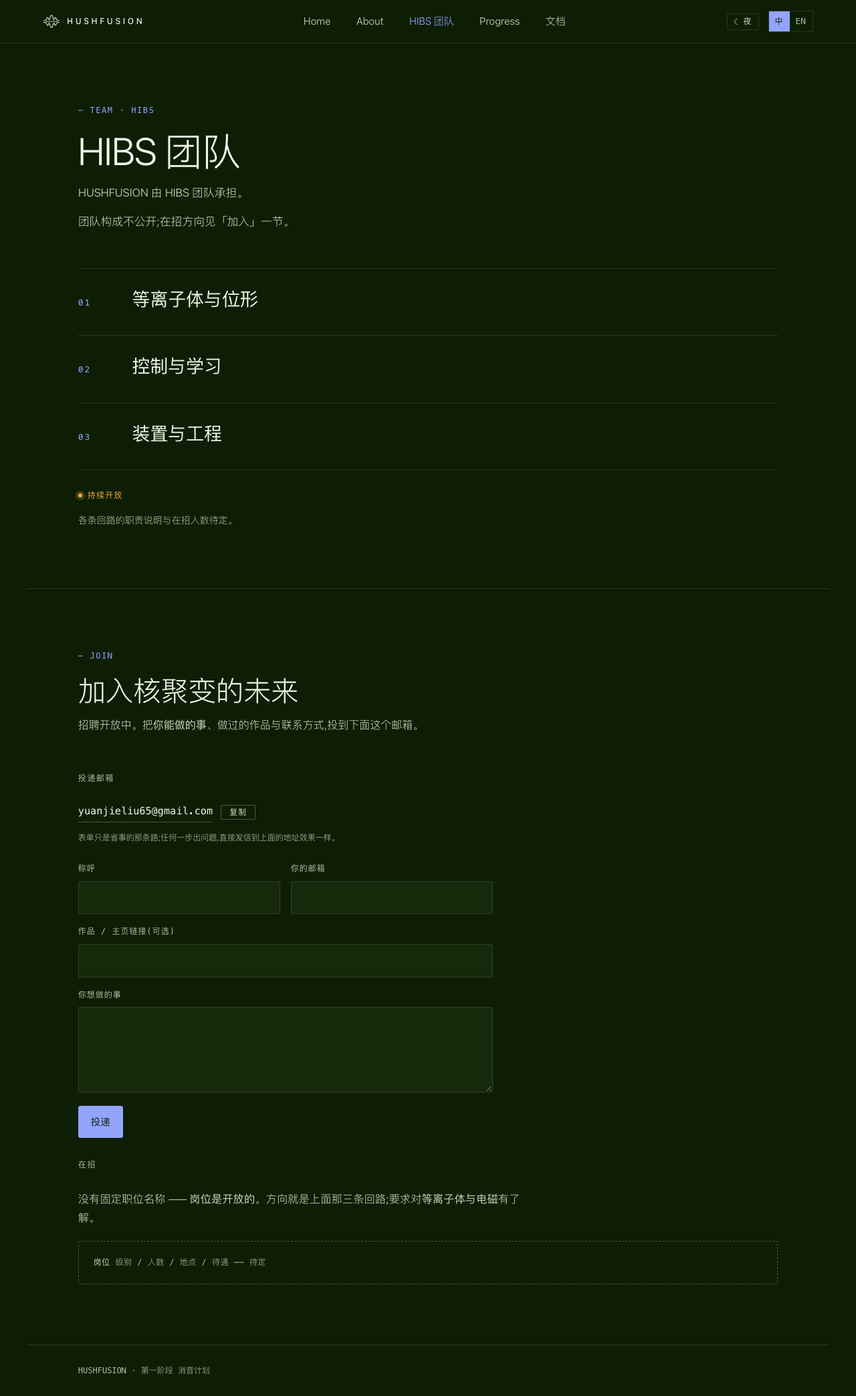
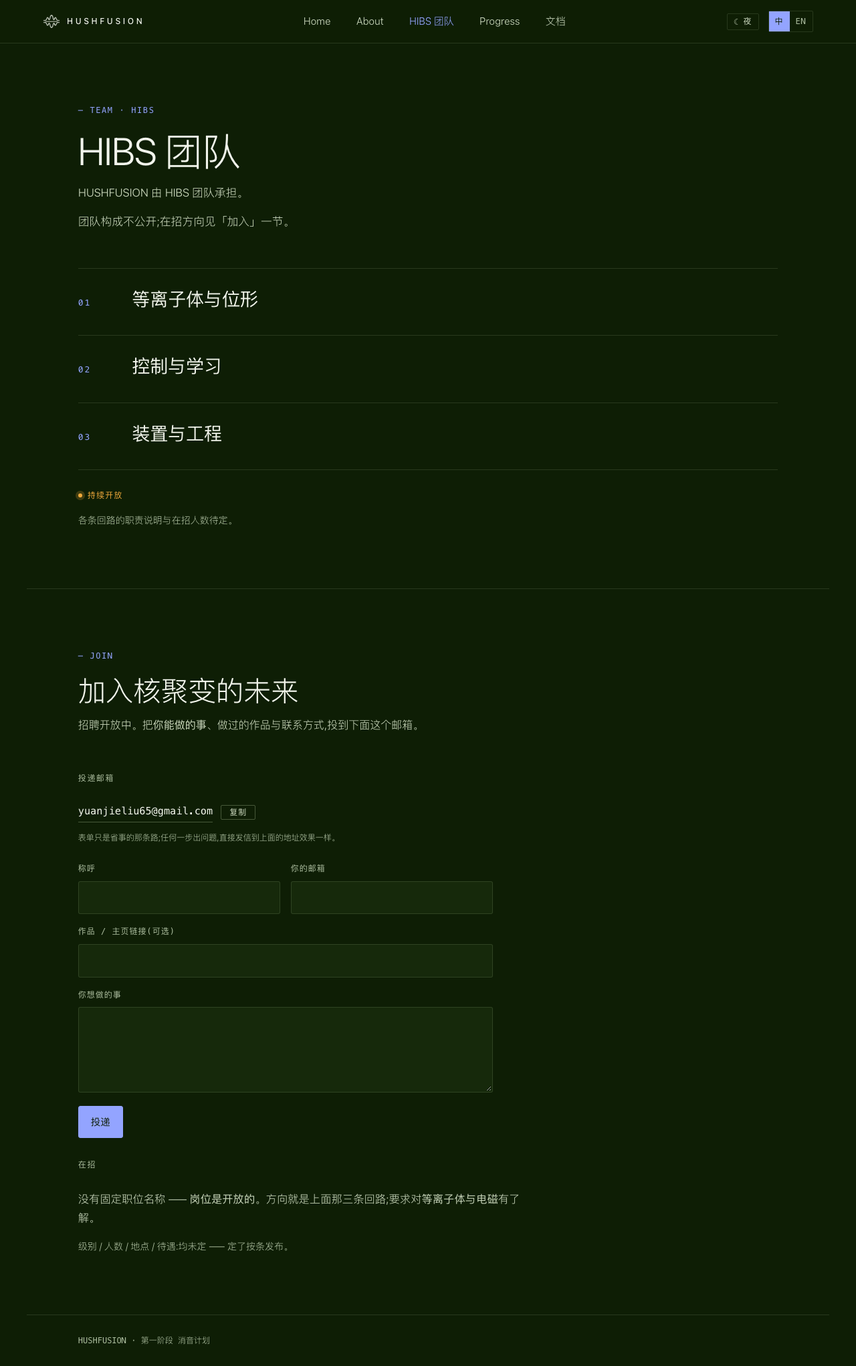
design(site): 前门做减法 + 首次把设计系统 FORGE 写进站点;修 CI 三天红
减法(需方:内容太乱,用乔布斯技能删减)
- 诊断:同一句话在一屏内说了八遍。删掉与下方清单逐字重复的滚动展示栏、
  重复的第二条 lede、与第一个同页的第二个 CTA、空 figure/figcaption
- 首页五个支点 → 两条公开技术方向(另三个是动机与愿景,完整五条留在关于页并回链)
- 删掉两个 .placeholder 空盒子(关于页「合作与资助·待项目方提供」、HIBS 页「岗位·待定」)

加进介绍(需方:前端设计更新后把这个项目加进去)
- 首页 #forge 一节:闭环 / 人机对比 1.3814 vs -0.2906 / 16 道门 / 诚实的限制
- 进展页 #forge:12,001 次评估、跨语言一致 2.2e-12、逐位复现门、一行复现命令、
  「说到哪没说到哪」四条限制,并删掉「关键指标·数值待项目方提供」
- 文档区代码仓库第三行 + 关于页时间线第二个已发生节点(2026-09-26)
- 站点首次有可运行的机器可发布,不再只有账本与概念;纪律未破:只发已归档的事

修 CI(连续三天全红,非本次改动引入)
- untracked_raw_check 报 assets/art/mu-dynamics.png(加第 06 册时漏登记)与
  docs/screenshots/docs.png(theory.html 改名后截图名变了)
- 按本仓惯例补登 manifest 两行 + docs/ASSETS.md §九 一行,不绕门

验收:verify-site.mjs 226/226(本地 + 部署后线上);wiki 7 道门全绿;
未改 style.css/app.js ⇒ 五页 ?v= 保持同号 19

diff --git a/index.html b/index.html
@@ -4,7 +4,7 @@
 <meta charset="UTF-8">
 <meta name="viewport" content="width=device-width, initial-scale=1">
 <title>HUSHFUSION — 反引力场 · 无噪音能源 · 可控引力场飞行器</title>
-<meta name="description" content="HUSHFUSION:用反引力场换取没有噪音的能源与安静无声的动力源;终局是物质质量归零后的引力场相变,以及可控引力场的飞行器。消音计划是第一阶段。">
+<meta name="description" content="HUSHFUSION:用反引力场换取没有噪音的能源与安静无声的动力源;终局是物质质量归零后的引力场相变,以及可控引力场的飞行器。消音计划是第一阶段;已有一个可运行的线圈设计系统 FORGE。">
 <link rel="icon" href="icons/favicon-32.png" sizes="32x32" data-icon="favicon">
 <link rel="apple-touch-icon" href="icons/apple-touch-icon.png" data-icon="apple">
 <meta name="theme-color" content="#0E1E05" id="theme-color">
@@ -47,9 +47,6 @@
     <figure class="exhibit reveal">
       <img src="assets/hero/poster-full.png"
            alt="HUSHFUSION 消音计划手绘海报:笔迹主标、中文标语与反应堆主视觉">
-      <figcaption>
-       
-      </figcaption>
     </figure>
   </section>
 
@@ -61,91 +58,70 @@
       <p class="intro-cn">消音计划<span class="intro-phase">第一阶段</span></p>
       <p class="intro-en">Controlled Fusion Through the Silence.</p>
       <p class="lede" data-zh="物质质量归零,引力场发生相变 —— 我们要抵达的地方,是&lt;strong&gt;可以控制引力场的飞行器与交通设施&lt;/strong&gt;。" data-en="Mass goes to zero and the gravitational field undergoes a phase transition — where we are headed is &lt;strong&gt;flight vehicles and transport infrastructure built on a controlled gravitational field&lt;/strong&gt;." data-html="1">物质质量归零,引力场发生相变 —— 我们要抵达的地方,是<strong>可以控制引力场的飞行器与交通设施</strong>。</p>
-      <p class="lede" style="margin-top:14px" data-zh="HUSHFUSION 是一个以可控核聚变为起点的科研项目,用&lt;strong&gt;反引力场&lt;/strong&gt;做到两件事:&lt;strong&gt;没有噪音&lt;/strong&gt;与&lt;strong&gt;无限能源&lt;/strong&gt;,并由此得到安静无声的动力源。" data-en="HUSHFUSION starts from controlled fusion and uses an &lt;strong&gt;anti-gravity field&lt;/strong&gt; to achieve two things — &lt;strong&gt;no noise&lt;/strong&gt; and &lt;strong&gt;unlimited energy&lt;/strong&gt; — yielding a power source that is silent." data-html="1">HUSHFUSION 是一个以可控核聚变为起点的科研项目,用<strong>反引力场</strong>做到两件事:<strong>没有噪音</strong>与<strong>无限能源</strong>,并由此得到安静无声的动力源。</p>
-            <p class="intro-path" data-zh="反引力场 → 无噪音 · 无限能源 → 安静无声的动力源 → 物质质量归零 → 引力场相变 → 可控引力场飞行器" data-en="Anti-gravity field → no noise · unlimited energy → silent power → mass to zero → gravitational phase transition → gravity-controlled flight">反引力场 → 无噪音 · 无限能源 → 安静无声的动力源 → 物质质量归零 → 引力场相变 → 可控引力场飞行器</p>
+      <p class="intro-path" data-zh="反引力场 → 无噪音 · 无限能源 → 安静无声的动力源 → 物质质量归零 → 引力场相变 → 可控引力场飞行器" data-en="Anti-gravity field → no noise · unlimited energy → silent power → mass to zero → gravitational phase transition → gravity-controlled flight">反引力场 → 无噪音 · 无限能源 → 安静无声的动力源 → 物质质量归零 → 引力场相变 → 可控引力场飞行器</p>
       <div class="intro-cta">
-        <a class="quiet-cta quiet-cta--solid" href="progress.html#tech">探索更多 <span aria-hidden="true">→</span></a>
-        <a class="quiet-cta" href="progress.html">阅读进展</a>
+        <a class="quiet-cta quiet-cta--solid" href="progress.html#forge">已能跑的东西 <span aria-hidden="true">→</span></a>
       </div>
     </div>
   </section>
 
-  <!-- ◆ 滚动展示栏:主题词(取自海报要点) -->
-  <div class="cap-marquee" aria-hidden="false">
-    <div class="cap-marquee-track">
-      <span class="cap-marquee-group">
-        <span class="cap-marquee-item"><b>01</b>Time-Varying Gravity</span><span class="cap-marquee-sep">◇</span>
-        <span class="cap-marquee-item"><b>02</b>AI Control</span><span class="cap-marquee-sep">◇</span>
-        <span class="cap-marquee-item"><b>03</b>Noise Suppression</span><span class="cap-marquee-sep">◇</span>
-        <span class="cap-marquee-item"><b>04</b>Clean Energy</span><span class="cap-marquee-sep">◇</span>
-        <span class="cap-marquee-item"><b>05</b>A Quieter Future</span><span class="cap-marquee-sep">◇</span>
-      </span>
-      <span class="cap-marquee-group" aria-hidden="true">
-        <span class="cap-marquee-item"><b>01</b>Time-Varying Gravity</span><span class="cap-marquee-sep">◇</span>
-        <span class="cap-marquee-item"><b>02</b>AI Control</span><span class="cap-marquee-sep">◇</span>
-        <span class="cap-marquee-item"><b>03</b>Noise Suppression</span><span class="cap-marquee-sep">◇</span>
-        <span class="cap-marquee-item"><b>04</b>Clean Energy</span><span class="cap-marquee-sep">◇</span>
-        <span class="cap-marquee-item"><b>05</b>A Quieter Future</span><span class="cap-marquee-sep">◇</span>
-      </span>
-    </div>
-  </div>
-
-  <!-- ◆ 能力:让世界更安静 -->
+  <!-- ◆ 两条公开的技术方向(只有两条是技术线,另外三个是动机与愿景 —— 完整五个支点见关于页) -->
   <section class="band" id="quiet">
     <div class="section-head reveal">
       <p class="kicker">— 01 · 它要解决什么</p>
-      <h2 class="section-title" data-zh="从动力源到飞行器" data-en="From a power source to flight">从动力源到飞行器</h2>
+      <h2 class="section-title" data-zh="两条公开的技术方向" data-en="Two public technical directions">两条公开的技术方向</h2>
       <p class="section-lede" data-zh="聚变的难点不是「点火」,而是把混乱按住 —— 但消音只是第一段。这条路通向的是&lt;strong&gt;物质质量归零后的引力场相变&lt;/strong&gt;。" data-en="The hard part of fusion is not ignition but holding the chaos still — yet silencing is only the first stretch. The road leads to &lt;strong&gt;the gravitational phase transition that follows mass going to zero&lt;/strong&gt;." data-html="1">聚变的难点不是「点火」,而是把混乱按住 —— 但消音只是第一段。这条路通向的是<strong>物质质量归零后的引力场相变</strong>。</p>
     </div>
 
-    <div class="split reveal">
-      <ol class="cap-list reveal">
-        <li><span class="cap-no">01</span><div class="cap-body">
-          <h3>时变引力场</h3>
-          <p>本项目的技术逻辑。</p>
-          <span class="cap-tag">Time-Varying Gravitational Field</span>
-        </div></li>
-        <li><span class="cap-no">02</span><div class="cap-body">
-          <h3>AI 智能控制</h3>
-          <p>项目海报上列出的方向之一:电磁场持续学习的 AI 系统。</p>
-          <span class="cap-tag">AI Control</span>
-        </div></li>
-        <li><span class="cap-no">03</span><div class="cap-body">
-          <h3>噪音抑制</h3>
-          <p>动机层:要的是安静。它不是本项目的技术手段 —— 手段在<strong>时变引力场</strong>一侧。</p>
-          <span class="cap-tag">Noise Suppression</span>
-        </div></li>
-        <li><span class="cap-no">04</span><div class="cap-body">
-          <h3>清洁能源</h3>
-          <p>清洁能源方向。</p>
-          <span class="cap-tag">Clean Energy</span>
-        </div></li>
-        <li><span class="cap-no">05</span><div class="cap-body">
-          <h3>更安静的将来</h3>
-          <p>能源问题的解,不应该是更大的轰鸣,而是更少的噪声。</p>
-          <span class="cap-tag">A Quieter Future</span>
-        </div></li>
-      </ol>
-      <figure class="reveal fig-native-sm">
-     
-        
-      </figure>
+    <ol class="cap-list reveal">
+      <li><span class="cap-no">01</span><div class="cap-body">
+        <h3>时变引力场</h3>
+        <p data-zh="本项目的技术逻辑:引力不是实体,是空间场的泛函 —— 控制引力就是控制流动的梯度结构。" data-en="The technical logic of the project: gravity is not a substance but a functional of the space field — controlling gravity means controlling the gradient structure of the flow.">本项目的技术逻辑:引力不是实体,是空间场的泛函 —— 控制引力就是控制流动的梯度结构。</p>
+        <span class="cap-tag">Time-Varying Gravitational Field</span>
+      </div></li>
+      <li><span class="cap-no">02</span><div class="cap-body">
+        <h3>AI 智能控制</h3>
+        <p data-zh="电磁场持续学习的 AI 系统。第一版已经在跑:见下面 FORGE。" data-en="An AI system that keeps learning the electromagnetic field. Its first version already runs — see FORGE below.">电磁场持续学习的 AI 系统。第一版已经在跑:见下面 FORGE。</p>
+        <span class="cap-tag">AI Control</span>
+      </div></li>
+    </ol>
+    <p style="margin-top:22px"><a class="see-all" href="about.html#bullets"
+      data-zh="完整的五个支点(海报原话) →" data-en="All five pillars, as written on the poster →">完整的五个支点(海报原话) →</a></p>
+  </section>
+
+  <!-- ◆ 已经能跑的东西:FORGE(唯一有实测数字的一块) -->
+  <section class="band" id="forge">
+    <div class="section-head reveal">
+      <p class="kicker">— 02 · 已经能跑的东西</p>
+      <h2 class="section-title" data-zh="FORGE:线圈怎么摆,先让机器试" data-en="FORGE: let the machine try the coil first">FORGE:线圈怎么摆,先让机器试</h2>
+      <p class="section-lede" data-html="1" data-zh="装置的第一个硬约束是&lt;strong&gt;线圈怎么摆&lt;/strong&gt;。FORGE 把这件事做成了闭环:参数化线圈 → 算磁场 → 打分 → 入册 → 从册子里学规则。它不是演示,是 v0.1.0,已经跑完 12,001 次评估。" data-en="The first hard constraint of any device is &lt;strong&gt;where the coils go&lt;/strong&gt;. FORGE closes that loop: parameterised coils → field solve → score → registry → rules mined from the registry. It is not a demo — it is v0.1.0, and it has already run 12,001 evaluations.">装置的第一个硬约束是<strong>线圈怎么摆</strong>。FORGE 把这件事做成了闭环:参数化线圈 → 算磁场 → 打分 → 入册 → 从册子里学规则。它不是演示,是 v0.1.0,已经跑完 12,001 次评估。</p>
     </div>
+
+    <dl class="spec-list reveal">
+      <div><dt>闭环</dt><dd data-zh="四条搜索路线(随机 / LHS / 进化 / 热启动进化)在同等预算下比较,全部写进同一个册子。" data-en="Four search routes (random / LHS / evolution / warm-start evolution) compared at equal budget, all written into one registry.">四条搜索路线(随机 / LHS / 进化 / 热启动进化)在同等预算下比较,全部写进同一个册子。</dd></div>
+      <div><dt>人机对比</dt><dd data-zh="机器最优 1.3814,人工基线 −0.2906(Δ = +1.672);四种方法在 3/3 个随机种子上都赢。" data-en="Machine best 1.3814 against a human-designed baseline of −0.2906 (Δ = +1.672); all four methods win on 3/3 seeds.">机器最优 1.3814,人工基线 −0.2906(Δ = +1.672);四种方法在 3/3 个随机种子上都赢。</dd></div>
+      <div><dt>门禁</dt><dd data-zh="16 道验收门全绿(含跨语言复核:Go 求解器与独立 Python oracle 的场值一致到 2.2e−12)。" data-en="16 acceptance gates green, including a cross-language check: the Go solver and an independent Python oracle agree on field values to 2.2e−12.">16 道验收门全绿(含跨语言复核:Go 求解器与独立 Python oracle 的场值一致到 2.2e−12)。</dd></div>
+      <div><dt>诚实的限制</dt><dd data-zh="那个最优解很可能不可造 —— 它把一圈线圈放在距打分点 4.2 mm 的位置,因为目标函数还没有导体净空约束。我们把这一条和数字一起公开。" data-en="That winning design is most likely unbuildable — it parks a coil 4.2 mm from the scoring point, because the objective still has no conductor-clearance constraint. We publish that alongside the number.">那个最优解很可能不可造 —— 它把一圈线圈放在距打分点 4.2 mm 的位置,因为目标函数还没有导体净空约束。我们把这一条和数字一起公开。</dd></div>
+    </dl>
+
+    <p style="margin-top:26px">
+      <a class="see-all" href="progress.html#forge" data-zh="进展与技术里的全部细节 →" data-en="Full detail under Progress &amp; technology →">进展与技术里的全部细节 →</a>
+      &nbsp;&nbsp;
+      <a class="see-all" href="https://github.com/logos-42/hushfusion-forge" target="_blank" rel="noopener" data-zh="代码仓库 →" data-en="Repository →">代码仓库 →</a>
+    </p>
   </section>
 
   <!-- ◆ 当前阶段 -->
   <section class="band" id="status">
     <div class="section-head reveal">
-      <p class="kicker">— 02 · Status</p>
+      <p class="kicker">— 03 · Status</p>
       <h2 class="section-title" data-zh="当前阶段" data-en="Current stage">当前阶段</h2>
-      <p class="section-lede" data-zh="第一阶段「消音计划」处于&lt;strong&gt;概念阶段&lt;/strong&gt;:技术逻辑与路线已确立,实验进展待立项后按归档发布。" data-en="The first phase — the hush plan — is at the &lt;strong&gt;concept stage&lt;/strong&gt;: the technical logic and the route are settled; experimental progress is published once archived." data-html="1">第一阶段「消音计划」处于<strong>概念阶段</strong>:技术逻辑与路线已确立,实验进展待立项后按归档发布。</p>
+      <p class="section-lede" data-html="1" data-zh="装置处在&lt;strong&gt;概念阶段&lt;/strong&gt;:技术逻辑与路线已确立,实验进展待立项后按归档发布。设计侧已经有一条能跑的路 —— FORGE v0.1.0。" data-en="The device is at the &lt;strong&gt;concept stage&lt;/strong&gt;: the technical logic and the route are settled, and experimental progress is published once archived. On the design side one path already runs — FORGE v0.1.0.">装置处在<strong>概念阶段</strong>:技术逻辑与路线已确立,实验进展待立项后按归档发布。设计侧已经有一条能跑的路 —— FORGE v0.1.0。</p>
     </div>
-    <p><span class="status">Concept</span></p>
+    <p><span class="status">Concept</span> <span class="status">FORGE v0.1.0</span></p>
     <p style="margin-top:26px"><a class="see-all" href="progress.html"
        data-zh="进展与技术 →" data-en="Progress &amp; technology →">进展与技术 →</a></p>
   </section>
-
-
 
 </main>
 

diff --git a/progress.html b/progress.html
@@ -4,7 +4,7 @@
 <meta charset="UTF-8">
 <meta name="viewport" content="width=device-width, initial-scale=1">
 <title>进展与技术 · HUSHFUSION</title>
-<meta name="description" content="HUSHFUSION 的进展与技术口径:技术逻辑是反引力场,核心动机是可以控制引力场的飞行器与交通设施。">
+<meta name="description" content="HUSHFUSION 的进展与技术口径:技术逻辑是反引力场,核心动机是可以控制引力场的飞行器与交通设施;设计侧已有一个可运行的系统 FORGE v0.1.0。">
 <link rel="icon" href="icons/favicon-32.png" sizes="32x32" data-icon="favicon">
 <link rel="apple-touch-icon" href="icons/apple-touch-icon.png" data-icon="apple">
 <meta name="theme-color" content="#0E1E05" id="theme-color">
@@ -54,13 +54,12 @@
 
     <div class="section-head reveal" style="margin-top:clamp(36px,5vw,64px);margin-bottom:14px">
       <h2 class="section-title" style="font-size:clamp(1.25rem,2.2vw,1.7rem)"
-          data-zh="当前阶段:概念" data-en="Current stage: concept">当前阶段:概念</h2>
-      <p class="section-lede"
-         data-zh="技术逻辑与路线已确立(反引力场 / 无噪音能源)。实验进展、指标数值与归档记录都还没有 —— 待立项后按条目发布,&lt;strong&gt;不预先填充&lt;/strong&gt;。"
-         data-en="The technical logic and the route are settled (anti-gravity field / energy without noise). Experimental progress, metric values and archives do not exist yet — they will be published entry by entry once the project starts, and are &lt;strong&gt;not pre-filled&lt;/strong&gt;."
-         data-html="1">技术逻辑与路线已确立(反引力场 / 无噪音能源)。实验进展、指标数值与归档记录都还没有 —— 待立项后按条目发布,<strong>不预先填充</strong>。</p>
+          data-zh="当前阶段:概念 —— 但设计侧已经有一条路在跑" data-en="Current stage: concept — but one path on the design side already runs">当前阶段:概念 —— 但设计侧已经有一条路在跑</h2>
+      <p class="section-lede" data-html="1"
+         data-zh="&lt;strong&gt;装置&lt;/strong&gt;仍在概念阶段:技术逻辑与路线已确立(反引力场 / 无噪音能源),实验进展、指标数值与归档记录都还没有,待立项后按条目发布,&lt;strong&gt;不预先填充&lt;/strong&gt;。&lt;strong&gt;设计侧&lt;/strong&gt;不同 —— 已经有一台在跑的机器(FORGE),它的每一个数都在下面,而且都能被重新算出来。"
+         data-en="The &lt;strong&gt;device&lt;/strong&gt; is still at the concept stage: the technical logic and route are settled (anti-gravity field / energy without noise); experimental progress, metric values and archives do not exist yet and will be published entry by entry once the project starts — &lt;strong&gt;not pre-filled&lt;/strong&gt;. The &lt;strong&gt;design side&lt;/strong&gt; is different: there is already a machine that runs (FORGE), and every number of it is below — each one recomputable.">装置仍在概念阶段:技术逻辑与路线已确立(反引力场 / 无噪音能源),实验进展、指标数值与归档记录都还没有,待立项后按条目发布,<strong>不预先填充</strong>。设计侧不同 —— 已经有一台在跑的机器(FORGE),它的每一个数都在下面,而且都能被重新算出来。</p>
     </div>
-    <p><span class="status">Concept</span></p>
+    <p><span class="status">Concept · device</span> <span class="status">Running · FORGE v0.1.0</span></p>
   </section>
 
   <!-- ◆ 技术(原 technology.html 已并入本节) -->
@@ -90,29 +89,62 @@
         <p class="pane-tag">Time-Varying Gravitational Field</p>
         <dl class="spec-list">
           <div><dt>角色</dt><dd><strong>本项目的技术逻辑。</strong></dd></div>
-          <div><dt>公开细节</dt><dd>待项目方提供。</dd></div>
+          <div><dt>公开细节</dt><dd data-zh="引力在此框架里不是实体,而是空间场的泛函:Φ = ½|C|²,引力加速度 = −∇Φ;所以「控制引力」= 「控制流动的梯度结构」。代数一侧的账在文档区第一册。" data-en="In this framework gravity is not a substance but a functional of the space field: Φ = ½|C|², with gravitational acceleration = −∇Φ; so controlling gravity means controlling the gradient structure of the flow. The algebraic ledger is the first document in the docs section.">引力在此框架里不是实体,而是空间场的泛函:Φ = ½|C|²,引力加速度 = −∇Φ;所以「控制引力」= 「控制流动的梯度结构」。代数一侧的账在文档区第一册。</dd></div>
         </dl>
       </div>
       <div class="pane" data-pane="ai" role="tabpanel">
         <p class="pane-tag">AI Control</p>
         <dl class="spec-list">
-          <div><dt>角色</dt><dd>项目海报上列出的方向之一。</dd></div>
-          <div><dt>公开细节</dt><dd>电磁场持续学习的 AI 系统。</dd></div>
+          <div><dt>角色</dt><dd data-zh="项目海报上列出的方向之一:电磁场持续学习的 AI 系统。" data-en="One of the directions written on the project poster: an AI system that keeps learning the electromagnetic field.">项目海报上列出的方向之一:电磁场持续学习的 AI 系统。</dd></div>
+          <div><dt>公开细节</dt><dd data-zh="已经有一台在跑 —— &lt;strong&gt;FORGE&lt;/strong&gt;,见下一节。它不训练等离子体,而是先替装置把「线圈怎么摆」这件事搜出来。" data-en="One already runs — &lt;strong&gt;FORGE&lt;/strong&gt;, in the next section. It does not train plasma; it searches out where the coils should go." data-html="1">已经有一台在跑 —— <strong>FORGE</strong>,见下一节。它不训练等离子体,而是先替装置把「线圈怎么摆」这件事搜出来。</dd></div>
         </dl>
       </div>
     </div>
     <p style="color:var(--ink-3);font-size:.875rem;margin-top:18px">
       噪音抑制是要<strong style="color:var(--ink-2);font-weight:400">拿到的东西</strong>,不是技术线 —— 所以它不在这几栏里。
     </p>
+  </section>
 
-    <div class="section-head reveal" style="margin-top:clamp(36px,5vw,64px);margin-bottom:18px">
-      <h3 class="section-title" style="font-size:clamp(1.25rem,2.2vw,1.7rem)"
-          data-zh="关键指标" data-en="Key metrics">关键指标</h3>
-      <p class="section-lede"
-         data-zh="数值待项目方提供。"
-         data-en="Values are pending from the project team.">数值待项目方提供。</p>
+  <!-- ◆ FORGE:设计侧唯一的实测数字 -->
+  <section class="band" id="forge">
+    <div class="section-head reveal">
+      <p class="kicker">— 02 · FORGE</p>
+      <h2 class="section-title" data-zh="FORGE v0.1.0:一个不断产生、验证、淘汰下一代线圈设计的系统" data-en="FORGE v0.1.0: a system that keeps producing, validating and killing the next generation of coil designs">FORGE v0.1.0:一个不断产生、验证、淘汰下一代线圈设计的系统</h2>
+      <p class="section-lede" data-html="1" data-zh="它不是这一台装置,是&lt;strong&gt;产生装置设计的机器&lt;/strong&gt;。v0.1.0 的目标只有一个:机器能不能找到一个比人工设计更好的电磁设计,而且这条结论能被别人重新算一遍。"
+         data-en="It is not this device; it is the &lt;strong&gt;machine that produces device designs&lt;/strong&gt;. v0.1.0 had exactly one target: can the machine find a better electromagnetic design than a competent human one, and can that claim be recomputed by somebody else.">它不是这一台装置,是<strong>产生装置设计的机器</strong>。v0.1.0 的目标只有一个:机器能不能找到一个比人工设计更好的电磁设计,而且这条结论能被别人重新算一遍。</p>
     </div>
 
+    <dl class="spec-list reveal">
+      <div><dt>闭环</dt><dd data-zh="参数化线圈 → 精确磁场求解 → 目标函数打分 → 登记入册(带设计谱系)→ 从册子里挖规则。四条搜索路线(随机 / LHS / 进化 / 热启动进化)在同等预算下比较。" data-en="Parameterised coils → exact field solve → scoring → entry into a registry with design lineage → rules mined from the registry. Four search routes (random / LHS / evolution / warm-start evolution) compared at equal budget.">参数化线圈 → 精确磁场求解 → 目标函数打分 → 登记入册(带设计谱系)→ 从册子里挖规则。四条搜索路线(随机 / LHS / 进化 / 热启动进化)在同等预算下比较。</dd></div>
+      <div><dt>人机对比</dt><dd data-zh="人工基线 −0.2906(它的中央室电流是解出来的,不是猜的);机器最优 1.3814(Δ = +1.672)。四种方法在 3/3 个随机种子上全部击败人工基线。" data-en="Human baseline −0.2906 (its central-cell current is solved for, not guessed); machine best 1.3814 (Δ = +1.672). All four methods beat the human baseline on 3/3 seeds.">人工基线 −0.2906(它的中央室电流是解出来的,不是猜的);机器最优 1.3814(Δ = +1.672)。四种方法在 3/3 个随机种子上全部击败人工基线。</dd></div>
+      <div><dt>已归档的记录</dt><dd data-zh="一次基准跑 12,001 次评估,逐条入库(原始项、约束残差、设计谱系都留着),连同报告与图一起提交进仓库。" data-en="One benchmark run: 12,001 evaluations, every one recorded (raw terms, constraint residuals, design lineage) and committed to the repository together with the report and figures.">一次基准跑 12,001 次评估,逐条入库(原始项、约束残差、设计谱系都留着),连同报告与图一起提交进仓库。</dd></div>
+      <div><dt>门禁</dt><dd data-zh="16 道验收门,任何一道红就是红。其中两道是这台机器存在的理由:(1)跨语言复核 —— Go 求解器的场值与一个独立写成的 Python oracle 一致到 2.2e−12;(2)逐位复现 —— 按存档参数重跑一遍,12,001 条记录必须逐位相同。" data-en="16 acceptance gates; one red is red. Two of them are why this machine exists: (1) a cross-language check — the Go solver's field values agree with an independently written Python oracle to 2.2e−12; (2) bit-exact reproduction — re-run with the archived parameters and all 12,001 records must match bit for bit.">16 道验收门,任何一道红就是红。其中两道是这台机器存在的理由:(1)跨语言复核 —— Go 求解器的场值与一个独立写成的 Python oracle 一致到 2.2e−12;(2)逐位复现 —— 按存档参数重跑一遍,12,001 条记录必须逐位相同。</dd></div>
+      <div><dt>怎么重算</dt><dd class="mono" style="letter-spacing:0">bash scripts/verify.sh phase0</dd></div>
+    </dl>
+
+    <div class="reveal" style="margin-top:clamp(28px,4vw,44px);max-width:46em">
+      <p class="kicker kicker--muted" data-zh="说到哪,没说到哪" data-en="What is claimed, what is not">说到哪,没说到哪</p>
+      <p style="color:var(--ink-2);font-size:.98rem" data-html="1"
+         data-zh="&lt;strong&gt;说得上话的&lt;/strong&gt;:这个闭环在真空场层面是可运行、可记录、可复核的。&lt;strong&gt;说不上话的&lt;/strong&gt;:(1)那个最优解很可能&lt;strong&gt;不可造&lt;/strong&gt; —— 它把一圈线圈放在距打分点 4.2 mm 处,因为目标函数还没有导体净空约束,这是一个合法的退化解;(2)热启动的增益在 1000 次预算下落进噪声,不许当结论;(3)人工基线在这个搜索盒里偏弱,随机搜索平均 8 次评估就追平它;(4)这一版是真空场设计,不含等离子体、线圈电流分配与有限厚度绕组 —— 它回答的是「这一组线圈的场结构好不好」,不是「这台机器会不会聚变」。"
+         data-en="&lt;strong&gt;What it can speak to&lt;/strong&gt;: the loop is runnable, recordable and checkable at the vacuum-field level. &lt;strong&gt;What it cannot&lt;/strong&gt;: (1) that winning design is most likely &lt;strong&gt;unbuildable&lt;/strong&gt; — it parks a coil 4.2 mm from the scoring point, because the objective has no conductor-clearance constraint yet, making it a legal degenerate solution; (2) the warm-start gain falls inside the noise at a 1000-evaluation budget and must not be quoted; (3) the human baseline is weak inside this particular box — random search catches it after about 8 evaluations; (4) this version is a vacuum-field design: no plasma, no conductor current sharing, no finite-thickness winding — it answers whether a coil set has good field structure, not whether a machine will fuse.">说得上话的:这个闭环在真空场层面是可运行、可记录、可复核的。说不上话的:(1)那个最优解很可能不可造 —— 它把一圈线圈放在距打分点 4.2 mm 处,因为目标函数还没有导体净空约束,这是一个合法的退化解;(2)热启动的增益在 1000 次预算下落进噪声,不许当结论;(3)人工基线在这个搜索盒里偏弱,随机搜索平均 8 次评估就追平它;(4)这一版是真空场设计,不含等离子体、线圈电流分配与有限厚度绕组 —— 它回答的是「这一组线圈的场结构好不好」,不是「这台机器会不会聚变」。</p>
+    </div>
+
+    <p style="margin-top:26px">
+      <a class="see-all" href="https://github.com/logos-42/hushfusion-forge" target="_blank" rel="noopener"
+         data-zh="代码仓库:github.com/logos-42/hushfusion-forge →" data-en="Repository: github.com/logos-42/hushfusion-forge →">代码仓库:github.com/logos-42/hushfusion-forge →</a>
+    </p>
+  </section>
+
+  <!-- ◆ 指标口径 -->
+  <section class="band" id="metrics">
+    <div class="section-head reveal">
+      <p class="kicker">— 03 · 指标口径</p>
+      <h2 class="section-title" style="font-size:clamp(1.25rem,2.2vw,1.7rem)"
+          data-zh="关键指标" data-en="Key metrics">关键指标</h2>
+      <p class="section-lede" data-html="1"
+         data-zh="&lt;strong&gt;装置侧&lt;/strong&gt;(等离子体、约束、装置工程)目前没有任何可发布的数值 —— 立项后按条目给。&lt;strong&gt;设计侧&lt;/strong&gt;的数值就是上一节 FORGE 的那四个数,来源与算法都在公开仓库里。"
+         data-en="&lt;strong&gt;Device side&lt;/strong&gt; (plasma, confinement, device engineering): no publishable values yet — they will be posted entry by entry once the project starts. &lt;strong&gt;Design side&lt;/strong&gt;: the numbers are the four in the FORGE section above, with sources and algorithms in the public repository.">装置侧(等离子体、约束、装置工程)目前没有任何可发布的数值 —— 立项后按条目给。设计侧的数值就是上一节 FORGE 的那四个数,来源与算法都在公开仓库里。</p>
+    </div>
   </section>
 
 </main>

diff --git a/about.html b/about.html
@@ -73,7 +73,7 @@
       <li><span class="cap-no">01</span><div class="cap-body">
         <h3>Time-Varying Gravitational Field</h3><p>时变引力场 —— 本项目的技术逻辑。</p></div></li>
       <li><span class="cap-no">02</span><div class="cap-body">
-        <h3>AI Control</h3><p>项目海报上列出的方向之一:电磁场持续学习的 AI 系统。</p></div></li>
+        <h3>AI Control</h3><p data-zh="项目海报上列出的方向之一:电磁场持续学习的 AI 系统。第一版已经在跑 —— FORGE,见进展页。" data-en="One of the directions on the project poster: an AI system that keeps learning the electromagnetic field. Its first version already runs — FORGE, on the Progress page.">项目海报上列出的方向之一:电磁场持续学习的 AI 系统。第一版已经在跑 —— FORGE,见进展页。</p></div></li>
       <li><span class="cap-no">03</span><div class="cap-body">
         <h3>Noise Suppression</h3><p>动机层:要的是安静,不是拿降噪当手段。</p></div></li>
       <li><span class="cap-no">04</span><div class="cap-body">
@@ -116,7 +116,7 @@
     <div class="section-head reveal">
       <p class="kicker">— 03 · 时间线</p>
       <h2 class="section-title" data-zh="时间线" data-en="Timeline">时间线</h2>
-      <p class="section-lede" data-zh="目前只有一个确定的节点;后面的还在走,不预先排期。" data-en="There is exactly one settled date so far; the rest is still moving, and no schedule is promised in advance.">目前只有一个确定的节点;后面的还在走,不预先排期。</p>
+      <p class="section-lede" data-zh="已经有两个确定的节点;后面的还在走,不预先排期。" data-en="Two dates are settled so far; the rest is still moving, and no schedule is promised in advance.">已经有两个确定的节点;后面的还在走,不预先排期。</p>
     </div>
 
     <ol class="cap-list reveal">
@@ -126,15 +126,16 @@
         <span class="cap-tag" data-zh="已发生" data-en="Done">已发生</span>
       </div></li>
       <li><span class="cap-no">02</span><div class="cap-body">
+        <h3>2026-09-26</h3>
+        <p data-zh="设计侧第一台在跑的机器 —— FORGE v0.1.0 上线:12,001 次评估入册,16 道验收门全绿,代码公开。" data-en="The first machine that runs on the design side — FORGE v0.1.0 ships: 12,001 evaluations recorded, 16 acceptance gates green, code published.">设计侧第一台在跑的机器 —— FORGE v0.1.0 上线:12,001 次评估入册,16 道验收门全绿,代码公开。</p>
+        <span class="cap-tag" data-zh="已发生" data-en="Done">已发生</span>
+      </div></li>
+      <li><span class="cap-no">03</span><div class="cap-body">
         <h3 data-zh="之后" data-en="After that">之后</h3>
-        <p data-zh="项目仍在进行;里程碑节点尚未确定,定了再按条发布。" data-en="The project is ongoing; no milestone dates are fixed yet — they will be posted as entries once they are.">项目仍在进行;里程碑节点尚未确定,定了再按条发布。</p>
+        <p data-zh="装置侧仍在进行;里程碑节点尚未确定,定了再按条发布。" data-en="The device side is ongoing; no milestone dates are fixed yet — they will be posted as entries once they are.">装置侧仍在进行;里程碑节点尚未确定,定了再按条发布。</p>
         <span class="cap-tag" data-zh="进行中" data-en="In progress">进行中</span>
       </div></li>
     </ol>
-
-    <div class="placeholder reveal" style="margin-top:30px">
-      <b>合作与资助</b> 合作机构 / 资助来源 —— 待项目方提供
-    </div>
 
     <div class="reveal" style="margin-top:30px;max-width:46em">
       <p class="kicker kicker--muted" data-zh="法务" data-en="Legal">法务</p>

diff --git a/docs.html b/docs.html
@@ -1145,6 +1145,10 @@
       <span class="mono" style="color:var(--ink-3);font-size:12px;letter-spacing:1px" data-zh="本站所属项目" data-en="This site">本站所属项目</span>
       <a href="https://github.com/logos-42/HushFusion" rel="noopener">github.com/logos-42/HushFusion</a>
     </p>
+    <p class="cite-links reveal" style="margin-top:14px">
+      <span class="mono" style="color:var(--ink-3);font-size:12px;letter-spacing:1px" data-zh="设计系统 FORGE:线圈设计的搜索 / 评分 / 记录 / 学习闭环" data-en="The FORGE design system: search, score, record and learn coil designs">设计系统 FORGE:线圈设计的搜索 / 评分 / 记录 / 学习闭环</span>
+      <a href="https://github.com/logos-42/hushfusion-forge" rel="noopener">github.com/logos-42/hushfusion-forge</a>
+    </p>
   </section>
 
 </main>

diff --git a/hibs.html b/hibs.html
@@ -123,9 +123,8 @@
          data-html="1">没有固定职位名称 —— <strong>岗位是开放的</strong>。方向就是上面那三条回路;要求对<strong>等离子体与电磁</strong>有了解。</p>
     </div>
 
-    <div class="placeholder reveal" style="margin-top:22px">
-      <b>岗位</b> 级别 / 人数 / 地点 / 待遇 —— 待定
-    </div>
+    <p class="reveal" style="margin-top:18px;color:var(--ink-3);font-size:.875rem"
+       data-zh="级别 / 人数 / 地点 / 待遇:均未定 —— 定了按条发布。" data-en="Level, headcount, location and compensation: all undecided — they will be posted as entries once they are.">级别 / 人数 / 地点 / 待遇:均未定 —— 定了按条发布。</p>
   </section>
 
 </main>

diff --git a/docs/wiki/log.md b/docs/wiki/log.md
@@ -226,4 +226,11 @@
 | 2026-09-24 | test | 深链断言改为**逐册循环**(从 DOM 取全部 `data-doc`),不再写死两个 id;时间线表时间列 `nowrap` | 写死 id 时新加册会静默漏测 |
 | 2026-09-24 | feat | 目录加第 06 项「μ 动力学」(`#doc-mu-dynamics`,6 节 / 5 表 / 1 图):状态方程 TD1–TD10、场控制桥 TD11–TD18、顺序不可交换 TD15–TD17、接 FRC 的窗口关闭步 TD19–TD21 | 需方「这些内容也要新建一个栏,写入文档页,更新到网站」 |
 | 2026-09-24 | chore | 图仍走导入:`artifacts/mudynamics/fig_mu_dynamics.png` → `assets/art/mu-dynamics.png`(`import_figures.py --check` 幂等) | 站点是消费者,形式化仓库是生产者 |
+| 2026-09-26 | design | 前门减法:删掉与下方清单逐字重复的滚动展示栏、重复的第二条 `lede`、同页重复的第二个 CTA、空 `figure`/`figcaption` | 需方「内容太乱,用乔布斯技能重新删减」;诊断 = 同一句话在一屏内说了八遍 |
+| 2026-09-26 | design | 首页五个支点 → 两条公开技术方向(另三个是动机与愿景),完整五条留在关于页并给回链 | 首页该说"做什么",不该复述海报 |
+| 2026-09-26 | feat | 进展页从占位符改成实物:删掉「关键指标 · 数值待项目方提供」空盒子与「合作与资助 · 待项目方提供」占位块;新增 `#forge` 一节(12,001 次评估 / 1.3814 vs −0.2906 / 16 道门 / 4.2 mm 不可造限制 / 一行复现命令) | 唯一有实测数字的东西此前不在站上 |
+| 2026-09-26 | feat | 首次接入 FORGE(= `hushfusion-forge`):首页 `#forge` + 进展页 `#forge` + 文档区代码仓库第三行 + 关于页时间线第二个已发生节点 2026-09-26 | 需方「前端设计更新后,把这个项目加进去介绍」 |
+| 2026-09-26 | test | `node scripts/verify-site.mjs` 226/226(本地) → `scripts/deploy.sh` 部署后对线上重跑 226/226 | 站点自身的门;线上截图落临时目录,不覆盖仓库证据 |
+| 2026-09-26 | chore | 线上读回踩坑记录:Cloudflare Pages 把 `*.html` 308 重定向到无扩展名路径,`curl` 不带 `-L` 会拿到 0 字节 —— 看起来像"没部署",实际是没跟随重定向 | 下次核验线上内容直接查 `/progress`、`/docs` |
+| 2026-09-26 | fix | 修 CI 连续三天全红:`untracked_raw_check` 报两个文件未登记 ——(1) `assets/art/mu-dynamics.png`(2026-09-24 新增第 06 册时漏登记);(2) `docs/screenshots/docs.png`(理论页由 `theory.html` 改名后截图名随之变化,而 manifest 里那一行还是 `theory.png`)。按本仓惯例补登 `manifests/raw_sources.csv` 两行 + `docs/ASSETS.md §九` 一行(含 sha256 / 尺寸 / 字节 / 源路径) | 近 4 次 push(2026-09-23 起)CI 全红;同一失败模式 2026-09-22 已出现过一次 —— 页面改名/加册时最容易漏登记 |
 

diff --git a/docs/wiki/current-status.md b/docs/wiki/current-status.md
@@ -11,6 +11,14 @@ status: current
 
 ## 最近更新
 
+- **前门做减法 + 首次接入设计系统 FORGE(2026-09-26)**:按需方「内容太乱,用乔布斯技能重新删减」把首页与进展页重写。
+  诊断:**同一句话在一屏内说了八遍** —— 海报标语 / kicker / H1 / 中文副标 / 英文标语 / 两条 lede / 箭头路线 / 滚动展示栏 全在说同一件事,而滚动展示栏的五个词又是下方清单的逐字复制。
+  删掉的:滚动展示栏(与下方清单重复)、第二条 lede(第三次复述)、第二个 CTA(与第一个同页)、空 `<figure>`/`<figcaption>`、两个 `.placeholder` 空盒子(关于页「合作与资助 · 待项目方提供」、HIBS 页「岗位 —— 待定」)。
+  收敛:首页五个支点 → **两条公开技术方向**(另外三个是动机与愿景,完整五条留在关于页,并给回链)。
+  新增:**FORGE v0.1.0**(`github.com/logos-42/hushfusion-forge`)的实测数字进入站点 —— 首页 `#forge` 一节概述、进展页 `#forge` 全部细节、文档区代码仓库第三行、关于页时间线第二个已发生节点(2026-09-26)。这是站点第一次有**可运行的机器**可发布,不再只有账本与概念。
+  纪律未破:站点仍只发布已归档的事 —— FORGE 的每个数都带来源、可重算,并连「说到哪没说到哪」一起发布(最优解贴打分点 4.2 mm、很可能不可造)。
+  验收:本地 `node scripts/verify-site.mjs` 226/226;部署后对线上重跑 226/226;线上读回逐条核对(见 log.md)。未改 `style.css`/`app.js` ⇒ 五页 `?v=` 保持同号 19。
+
 - **修订行动手册 `docs/PATH-ACTION-PLAYBOOK.md`**：按外部 Lean 项目 `/Users/apple/Downloads/lean/ProjectionPhysics` 的计算图纸推进，不再把主线预先拆成竞争路线。当前行动循环是“计算图纸 → Lean/数值运行 → 缺口或反例 → 补连接定理 → 更新图纸”；首要缺口是把 μ 的主动产生写成状态方程，并将 `GravityControl` 的 `flatten` 接入 `PlasmaDynamics`。
 
 - **新增设计稿 `docs/DONATION-FUND-PLAN.md`(公开支持 / Open Research Fund)**:需方 AI 计划 → 可实施规范。

diff --git a/docs/ASSETS.md b/docs/ASSETS.md
@@ -251,6 +251,7 @@ sha256    bb25bf8911fa095ae3ef06a6348525b9f91fb96724ca050e8cb0bb341dc116e5
 | `assets/art/moire-mu-verdict.png` | 1350×840 | 87 KB | `6fc952df66241576…` | `artifacts/moirefield/fig_mu_window_verdict.png` |
 | `assets/art/moire-bdeath-size.png` | 1350×840 | 78 KB | `c1170f012856b277…` | `artifacts/moirefield/fig_Bdeath_vs_size.png` |
 | `assets/art/moire-gate-gaps.png` | 1350×750 | 41 KB | `f6ba5c2e7cb25319…` | `artifacts/moirefield/fig_gate_gaps.png` |
+| `assets/art/mu-dynamics.png` | 1400×969 | 253 KB | `93d7b96ff80634d3…` | `artifacts/mudynamics/fig_mu_dynamics.png` |
 
 **规则**
 
